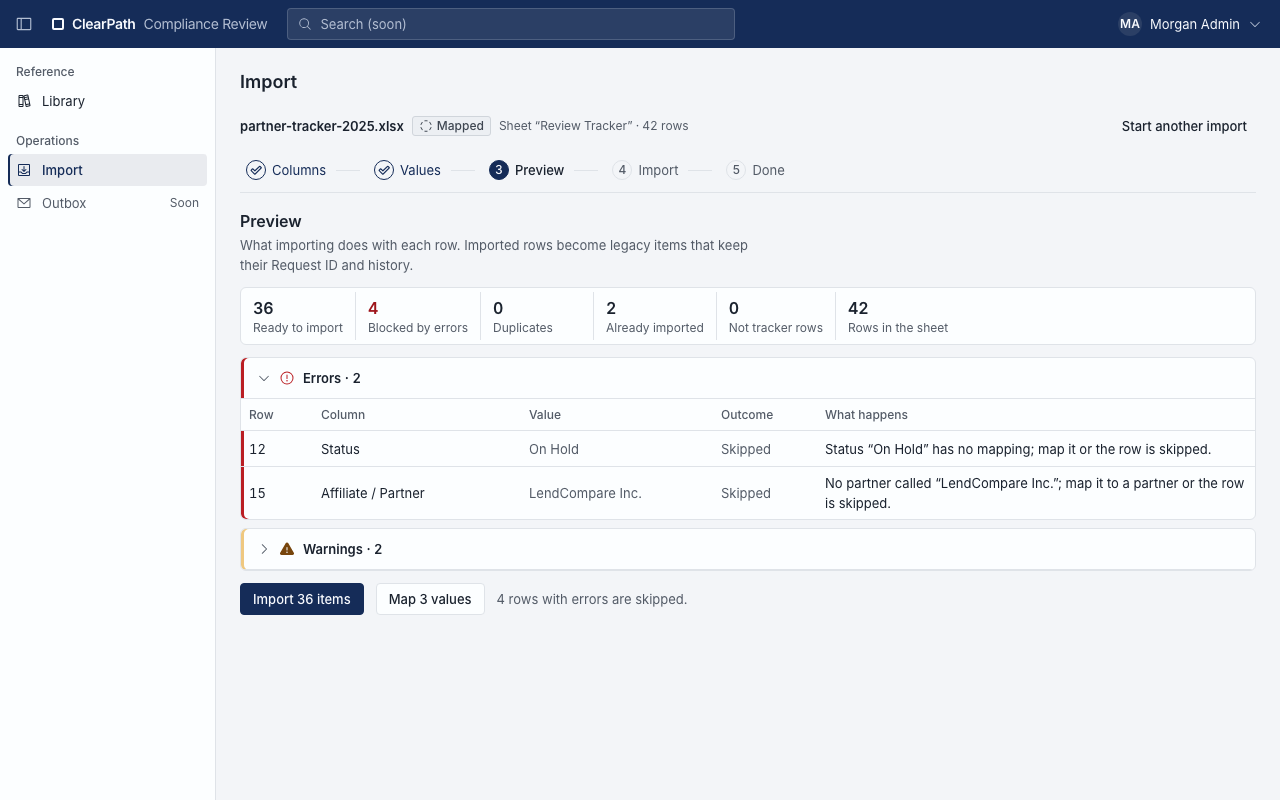
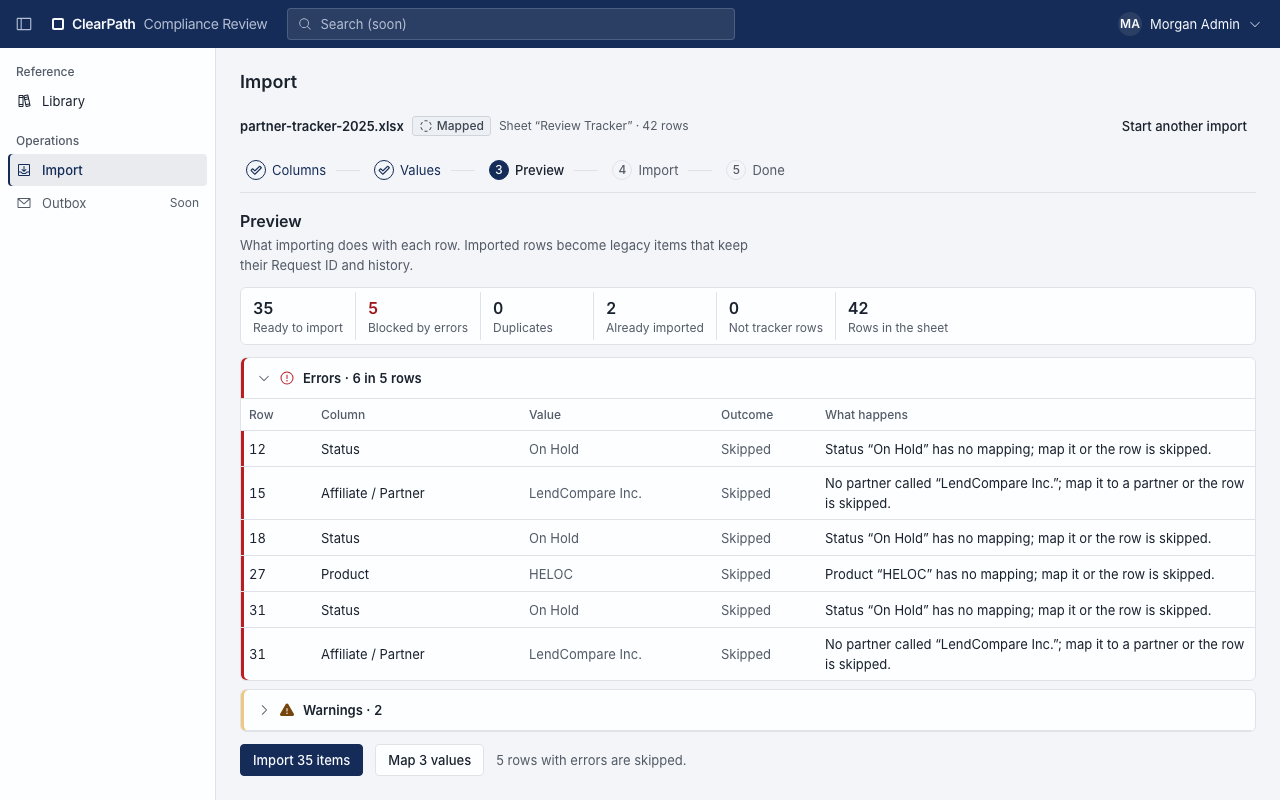
Import preview: counts match the rows listed
The preview screenshot's counts were typed by hand (blocked: 4) beside
two error rows. The fixture now derives blocked from its own error rows
(6 errors on 5 rows, matching its unmapped-value counts), and the group
header says "Errors · 6 in 5 rows" when a row has more than one error,
so it agrees with "5 rows with errors are skipped". A backend test pins
the invariant the UI relies on: blocked equals the rows the errors name.

diff --git a/frontend/src/features/import/ImportPage.test.tsx b/frontend/src/features/import/ImportPage.test.tsx
@@ -8,7 +8,9 @@ import { getListPartnersMockHandler } from '../../api/generated/partners/partner
 import type { ImportJobOut, ImportMappingIn, ImportPreviewOut } from '../../api/generated/model';
 import {
   committedPreview,
+  CUSTOM_COUNTS,
   CUSTOM_PROBLEMS,
+  CUSTOM_ROWS,
   CUSTOM_UNMAPPED,
   importJob,
   importPreview,
@@ -151,7 +153,12 @@ describe('Import: steps', () => {
   it('maps unmapped values, and puts a refused value on its own row', async () => {
     serveJob(
       importJob({ status: 'mapped' }),
-      importPreview({ unmapped: CUSTOM_UNMAPPED, problems: CUSTOM_PROBLEMS }),
+      importPreview({
+        unmapped: CUSTOM_UNMAPPED,
+        problems: CUSTOM_PROBLEMS,
+        rows: CUSTOM_ROWS,
+        counts: CUSTOM_COUNTS,
+      }),
     );
     server.use(
       http.put('*/api/imports/7/mapping', async ({ request }) => {
@@ -191,20 +198,37 @@ describe('Import: steps', () => {
   it('previews counts and problems grouped by severity, with row numbers', async () => {
     serveJob(
       importJob({ status: 'mapped' }),
-      importPreview({
-        problems: CUSTOM_PROBLEMS,
-        counts: { rows_total: 40, ready: 36, duplicates: 0, already_imported: 0, not_data: 0, blocked: 4 },
-      }),
+      importPreview({ problems: CUSTOM_PROBLEMS, rows: CUSTOM_ROWS, counts: CUSTOM_COUNTS }),
     );
     renderApp(`/import${searchString({ job: 7, step: 'preview' })}`);
 
     expect(await screen.findByRole('heading', { name: 'Preview' })).toBeInTheDocument();
-    expect(screen.getByText('36').closest('.app-import-count')).toHaveTextContent('Ready to import');
-    const errors = screen.getByRole('table', { name: 'Errors' });
-    expect(within(errors).getByRole('row', { name: /12.*Status.*On Hold/ })).toBeInTheDocument();
+    expect(screen.getByText('35').closest('.app-import-count')).toHaveTextContent('Ready to import');
+    expect(screen.getByText('Blocked by errors').closest('.app-import-count')?.textContent).toMatch(
+      /errors\s*5$/,
+    );
     expect(screen.getByRole('button', { name: /Warnings · 2/ })).toBeInTheDocument();
-    expect(screen.getByRole('button', { name: 'Import 36 items' })).toBeInTheDocument();
-    expect(screen.getByText(/4 rows with errors are skipped/)).toBeInTheDocument();
+    expect(screen.getByRole('button', { name: 'Import 35 items' })).toBeInTheDocument();
+    expect(screen.getByText(/5 rows with errors are skipped/)).toBeInTheDocument();
+  });
+
+  it('lists every blocked row, and says so when a row has more than one error', async () => {
+    serveJob(
+      importJob({ status: 'mapped' }),
+      importPreview({ problems: CUSTOM_PROBLEMS, rows: CUSTOM_ROWS, counts: CUSTOM_COUNTS }),
+    );
+    renderApp(`/import${searchString({ job: 7, step: 'preview' })}`);
+
+    // 6 errors on 5 rows (row 31 has two): the header names both, and the rows listed are the 5 skipped.
+    expect(await screen.findByRole('button', { name: /Errors · 6 in 5 rows/ })).toBeInTheDocument();
+    const errors = screen.getByRole('table', { name: 'Errors' });
+    const listed = within(errors)
+      .getAllByRole('row')
+      .slice(1)
+      .map((row) => within(row).getAllByRole('cell')[0]?.textContent);
+    expect(new Set(listed)).toEqual(new Set(['12', '15', '18', '27', '31']));
+    expect(new Set(listed).size).toBe(CUSTOM_COUNTS.blocked);
+    expect(within(errors).getByRole('row', { name: /12.*Status.*On Hold/ })).toBeInTheDocument();
   });
 
   it('commits, shows progress while polling, then the summary with links to the imported items', async () => {
@@ -271,7 +295,12 @@ describe('Import: steps', () => {
   it('offers to map values from the preview while some are unmapped', async () => {
     serveJob(
       importJob({ status: 'mapped' }),
-      importPreview({ unmapped: CUSTOM_UNMAPPED, problems: CUSTOM_PROBLEMS }),
+      importPreview({
+        unmapped: CUSTOM_UNMAPPED,
+        problems: CUSTOM_PROBLEMS,
+        rows: CUSTOM_ROWS,
+        counts: CUSTOM_COUNTS,
+      }),
     );
     const { router } = renderApp(`/import${searchString({ job: 7, step: 'preview' })}`);
     await userEvent.click(await screen.findByRole('button', { name: 'Map 3 values' }));

diff --git a/frontend/src/test/fixtures/imports.ts b/frontend/src/test/fixtures/imports.ts
@@ -234,33 +234,72 @@ export const CUSTOM_UNMAPPED: ImportPreviewOut['unmapped'] = [
   { field: 'product', value: 'HELOC', rows: 1 },
 ];
 
-export const CUSTOM_PROBLEMS: ImportProblemOut[] = [
+const onHold = (row_number: number) =>
   problem({
-    row_number: 12,
+    row_number,
     column: 'Status',
     kind: 'unmapped_status',
     severity: 'error',
     value: 'On Hold',
     message: 'Status “On Hold” has no mapping; map it or the row is skipped.',
-  }),
+  });
+const lendCompare = (row_number: number) =>
   problem({
-    row_number: 15,
+    row_number,
     column: 'Affiliate / Partner',
     kind: 'unknown_partner',
     severity: 'error',
     value: 'LendCompare Inc.',
     message: 'No partner called “LendCompare Inc.”; map it to a partner or the row is skipped.',
+  });
+
+/**
+ * One problem per affected row, matching CUSTOM_UNMAPPED: "On Hold" in rows 12, 18, 31; "LendCompare Inc." in
+ * 15, 31; "HELOC" in 27. Row 31 has two errors, so 6 errors block 5 rows. Two warnings import with a note.
+ */
+export const CUSTOM_PROBLEMS: ImportProblemOut[] = [
+  onHold(12),
+  lendCompare(15),
+  onHold(18),
+  problem({
+    row_number: 27,
+    column: 'Product',
+    kind: 'unknown_value',
+    severity: 'error',
+    value: 'HELOC',
+    message: 'Product “HELOC” has no mapping; map it or the row is skipped.',
   }),
+  onHold(31),
+  lendCompare(31),
   ...SAMPLE_PROBLEMS.slice(3, 5),
 ];
 
-/** The custom file's rows behind CUSTOM_PROBLEMS: unmapped values block 12 and 15; 41 and 57 import with a note. */
+const ERROR_ROWS = [
+  ...new Set(CUSTOM_PROBLEMS.filter((p) => p.severity === 'error').map((p) => p.row_number ?? 0)),
+];
+
+/** The custom file's rows behind CUSTOM_PROBLEMS: the error rows are blocked; 41 and 57 import with a note. */
 export const CUSTOM_ROWS: ImportPreviewRowOut[] = [
-  previewRow({ row_number: 12, action: 'blocked', status: null, problem_count: 1 }),
-  previewRow({ row_number: 15, action: 'blocked', partner: null, problem_count: 1 }),
+  ...ERROR_ROWS.map((n) =>
+    previewRow({
+      row_number: n,
+      action: 'blocked',
+      problem_count: CUSTOM_PROBLEMS.filter((p) => p.row_number === n).length,
+    }),
+  ),
   previewRow({ row_number: 41, problem_count: 1 }),
   previewRow({ row_number: 57, problem_count: 1 }),
 ];
+
+/** Derived, not typed in: "blocked" is the number of rows the errors name (the backend's invariant). */
+export const CUSTOM_COUNTS: ImportPreviewOut['counts'] = {
+  rows_total: 42,
+  ready: 35,
+  duplicates: 0,
+  already_imported: 2,
+  not_data: 0,
+  blocked: ERROR_ROWS.length,
+};
 
 export function recentImports(): ImportJobSummaryOut[] {
   return [

diff --git a/frontend/src/features/import/PreviewStep.tsx b/frontend/src/features/import/PreviewStep.tsx
@@ -109,6 +109,16 @@ const GROUP_ICON: Record<ImportProblemOut['severity'], IconKey> = {
   info: 'feedback.info',
 };
 
+/**
+ * "Errors · 2", or "Errors · 6 in 5 rows" when a row has more than one problem, so the header agrees with the
+ * row counts ("5 rows with errors are skipped"). The table lists every problem, so every affected row appears.
+ */
+function groupTitle(title: string, problems: readonly ImportProblemOut[]): string {
+  const rows = new Set(problems.flatMap((p) => (p.row_number === null ? [] : [p.row_number]))).size;
+  const n = String(problems.length);
+  return rows > 0 && rows < problems.length ? `${title} · ${n} in ${plural(rows, 'row')}` : `${title} · ${n}`;
+}
+
 export function ProblemGroups({
   problems,
   rows,
@@ -146,9 +156,7 @@ export function ProblemGroups({
             <AriaButton slot="trigger" className="app-import-group-trigger">
               <Icon name="action.expand" size={14} className="app-import-group-caret" />
               <Icon name={GROUP_ICON[g.severity]} size={16} className="app-import-group-icon" />
-              <span className="app-import-group-title">
-                {g.title} · {g.problems.length}
-              </span>
+              <span className="app-import-group-title">{groupTitle(g.title, g.problems)}</span>
             </AriaButton>
           </Heading>
           <DisclosurePanel className="app-import-group-panel">

diff --git a/frontend/e2e/screenshots-library-import.spec.ts b/frontend/e2e/screenshots-library-import.spec.ts
@@ -7,6 +7,7 @@ import { expect, test } from '@playwright/test';
 import type { Page } from '@playwright/test';
 
 import {
+  CUSTOM_COUNTS,
   CUSTOM_PROBLEMS,
   CUSTOM_ROWS,
   CUSTOM_UNMAPPED,
@@ -285,7 +286,12 @@ const shots: Shot[] = [
     path: '/import?job=7',
     stub: {
       job: importJob({ status: 'mapped', filename: 'partner-tracker-2025.xlsx', row_count: 42 }),
-      preview: importPreview({ unmapped: CUSTOM_UNMAPPED, problems: CUSTOM_PROBLEMS }),
+      preview: importPreview({
+        unmapped: CUSTOM_UNMAPPED,
+        problems: CUSTOM_PROBLEMS,
+        rows: CUSTOM_ROWS,
+        counts: CUSTOM_COUNTS,
+      }),
     },
     ready: async (page) => {
       await expect(page.getByRole('table', { name: 'Values to map' })).toBeVisible();
@@ -308,7 +314,7 @@ const shots: Shot[] = [
         problems: CUSTOM_PROBLEMS,
         rows: CUSTOM_ROWS,
         unmapped: CUSTOM_UNMAPPED,
-        counts: { rows_total: 42, ready: 36, duplicates: 0, already_imported: 2, not_data: 0, blocked: 4 },
+        counts: CUSTOM_COUNTS,
       }),
     },
     ready: async (page) => {

diff --git a/backend/imports/tests/test_services.py b/backend/imports/tests/test_services.py
@@ -322,6 +322,25 @@ def test_commit_refuses_blocked_rows_unless_skipping(
     assert ImportRow.objects.get(job_id=job_id, row_number=2).action == RowAction.BLOCKED.value
 
 
+def test_preview_blocked_count_equals_the_rows_its_errors_name(admin_user: User, clock: FixedClock) -> None:
+    """The preview's "blocked" count and its error list describe the same rows, even when one row has two errors
+    (the frontend shows "3 errors · 2 rows" and "2 rows with errors are skipped" from these)."""
+    job_id = services.create_sample_import(actor=admin_user, clock=clock)
+    job = ImportJob.objects.get(pk=job_id)
+    tracker = job.workbook["tracker"]
+    status, title = tracker["headers"].index("Status"), tracker["headers"].index("Asset Name / File Link")
+    tracker["rows"][0]["cells"][status] = {"text": "On hold"}  # r2: one error
+    tracker["rows"][1]["cells"][status] = {"text": "On hold"}  # r3: two errors
+    tracker["rows"][1]["cells"][title] = {}  # blank, as the reader stores it
+    job.save()
+
+    preview = selectors.get_preview(viewer=admin_user, job_id=job_id)
+    errors = [p for p in preview.problems if p.severity.value == "error"]
+    assert len(errors) == 3
+    assert preview.counts.blocked == len({p.row_number for p in errors}) == 2
+    assert {r.row_number for r in preview.rows if r.action is RowAction.BLOCKED} == {2, 3}
+
+
 def test_a_failed_commit_rolls_back_and_can_be_retried(
     admin_user: User,
     clock: FixedClock,

diff --git a/docs/plan/reviews/ui-screens.md b/docs/plan/reviews/ui-screens.md
@@ -86,5 +86,6 @@ Screenshots: `library-<state>-<width>.png` and `import-<state>-<width>.png`, stu
 | I11 | should-fix | Problem messages truncated. | Fixed. The message cell wraps (`whitespace-normal`, `text-wrap: pretty`). |
 | I12 | should-fix | "Save and continue" sat below the fold with 18 columns. | Fixed. The columns step's actions are a sticky footer at the bottom of the scrolling main. |
 | I13 | nit | "with the usual mess" and a hard-coded 180. | Fixed. "The team's 2025–26 review tracker, with the tracker's known inconsistencies." No count (no API returns it before loading). |
+| I14 | should-fix (orchestrator) | `import-preview-errors` showed "4 Blocked by errors" and "4 rows with errors are skipped" above an Errors table listing 2 rows. | Fixed. The cause was the fixture: its counts were typed by hand (`blocked: 4`) next to 2 error problems. The backend cannot produce this: a row is BLOCKED exactly when it has an ERROR problem (`normalize.py` `_action`), and the preview returns every row's problems. `test_preview_blocked_count_equals_the_rows_its_errors_name` checks this with 3 errors on 2 rows. The fixture now derives `blocked` from its own error rows (6 errors on 5 rows, matching its unmapped-value counts). The group header names rows when a row has more than one problem ("Errors · 6 in 5 rows"), so it agrees with "5 rows with errors are skipped"; a test checks that the listed row numbers equal `blocked`. |
 
 Found while recapturing, and fixed: the shrinking filter row first truncated empty chips ("Prod…"); only set chips shrink now. The pack column's "Download" link overflowed 7rem.
